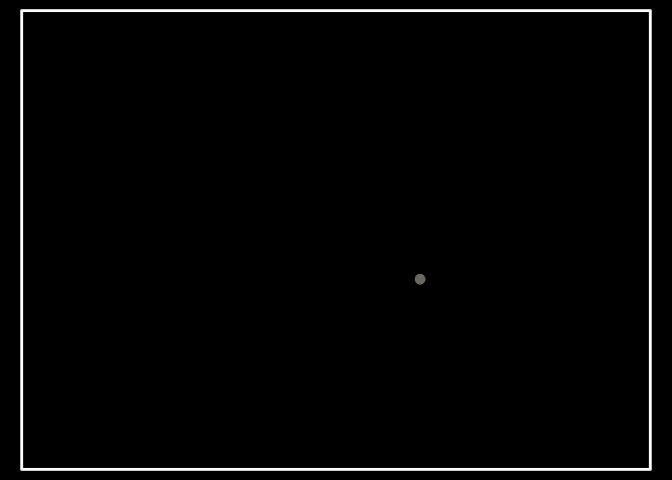
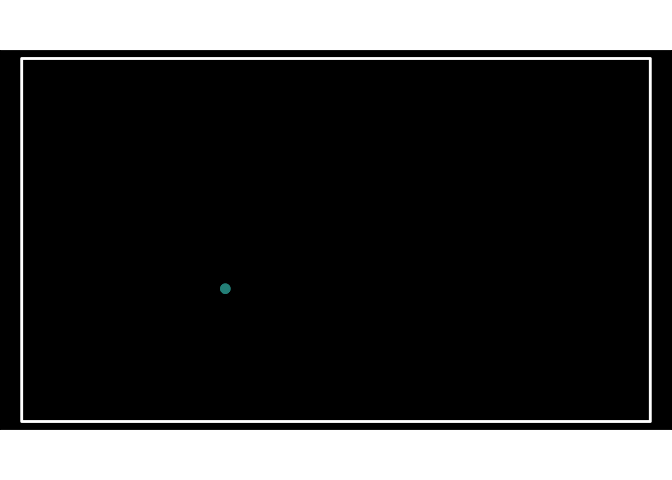
snakeit

diff --git a/README.md b/README.md
@@ -16,7 +16,7 @@ Start a Snake!
 
 ``` r
 space$new_snake()
-space$show(linewidth=1) + snake_palette("E")
+space$show(linewidth=1) + snake_palette("D")
 ```
 
 ![](README_files/figure-gfm/unnamed-chunk-4-1.png)<!-- -->
@@ -25,7 +25,7 @@ extend the head in a random direction, as long as the space is available
 
 ``` r
 space$move_head()
-space$show(linewidth=1) + snake_palette("E")
+space$show(linewidth=1) + snake_palette("D")
 ```
 
 ![](README_files/figure-gfm/unnamed-chunk-5-1.png)<!-- -->
@@ -34,7 +34,7 @@ Grow the snake until it’s trapped
 
 ``` r
 space$grow_snake()
-space$show(linewidth=1) + snake_palette("E")
+space$show(linewidth=1) + snake_palette("D")
 ```
 
 ![](README_files/figure-gfm/unnamed-chunk-6-1.png)<!-- -->
@@ -45,7 +45,7 @@ gets
 ``` r
 space$new_snake()
 space$grow_snake()
-space$show(linewidth=1) + snake_palette("E")
+space$show(linewidth=1) + snake_palette("D")
 ```
 
 ![](README_files/figure-gfm/unnamed-chunk-7-1.png)<!-- -->
@@ -54,7 +54,7 @@ Fill up the whole space
 
 ``` r
 space$fill_space()
-space$show(linewidth=1) + snake_palette("E")
+space$show(linewidth=1) + snake_palette("D")
 ```
 
 ![](README_files/figure-gfm/unnamed-chunk-8-1.png)<!-- -->
@@ -63,7 +63,7 @@ So pretty!
 
 ``` r
 space$fill_space()
-space$show(linewidth=3) + snake_palette("E")
+space$show(linewidth=3) + snake_palette("D")
 ```
 
 ![](README_files/figure-gfm/unnamed-chunk-9-1.png)<!-- -->
